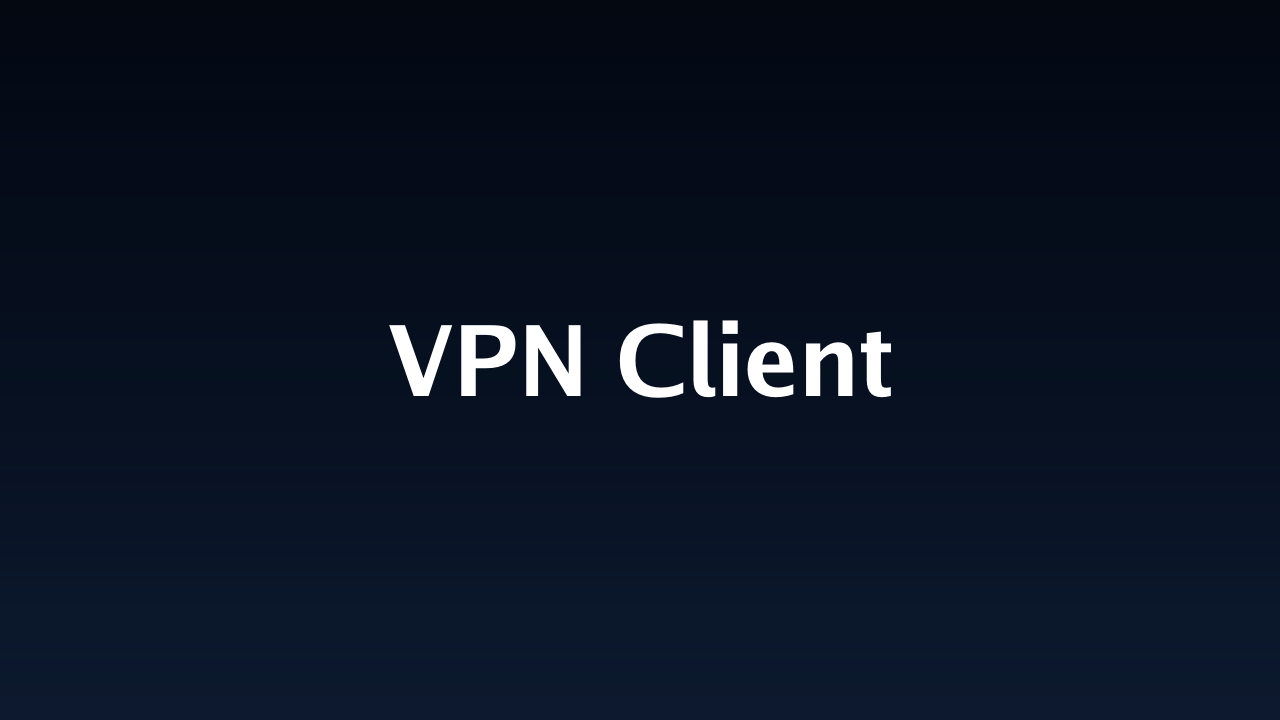
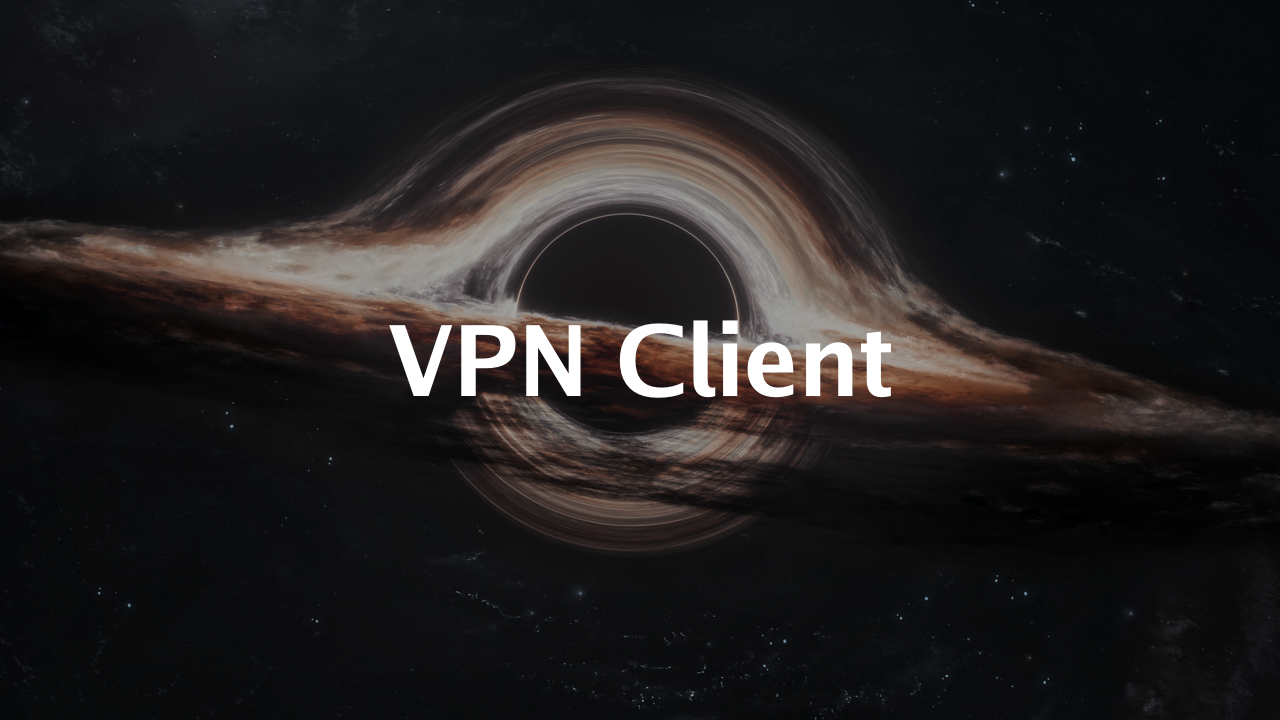
update images and handlers

diff --git a/vpn-bot/bot/handlers/start.go b/vpn-bot/bot/handlers/start.go
@@ -1,12 +1,16 @@
 package handlers
 
 import (
+	"bytes"
+	"log"
 	"strings"
+
+	"freeride/vpn-bot/services/media"
 
 	tb "gopkg.in/telebot.v3"
 )
 
-func registerStart(bot *tb.Bot) {
+func registerStart(bot *tb.Bot, d Deps) {
 	bot.Handle("/start", func(c tb.Context) error {
 		menu := &tb.ReplyMarkup{}
 		menu.InlineKeyboard = [][]tb.InlineButton{
@@ -21,6 +25,27 @@ func registerStart(bot *tb.Bot) {
 				title = "Привет, " + fn
 			}
 		}
-		return sendGeneratedCardOrText(Deps{Bot: bot}, c.Recipient(), title, "", &tb.SendOptions{ReplyMarkup: menu})
+		log.Printf("/start from id=%d title=%q", func() int64 {
+			if c.Sender() != nil {
+				return c.Sender().ID
+			}
+			return 0
+		}(), title)
+
+		card, err := media.RenderTitleCard(title)
+		if err == nil {
+			photo := &tb.Photo{
+				File:    tb.FromReader(bytes.NewReader(card)),
+				Caption: "",
+			}
+			if sendErr := c.Send(photo, menu); sendErr == nil {
+				return nil
+			} else {
+				log.Printf("/start photo send error: %v", sendErr)
+			}
+		} else {
+			log.Printf("/start render error: %v", err)
+		}
+		return c.Send(title, menu)
 	})
 }

diff --git a/vpn-bot/bot/handlers/register.go b/vpn-bot/bot/handlers/register.go
@@ -4,7 +4,7 @@ import tb "gopkg.in/telebot.v3"
 
 // RegisterAll подключает все хендлеры (vpn-setup-guide).
 func RegisterAll(bot *tb.Bot, d Deps) {
-	registerStart(bot)
+	registerStart(bot, d)
 	registerCallbacks(bot, d)
 	registerAdmin(bot, d)
 	registerStatus(bot, d)

diff --git a/vpn-bot/services/media/cards.go b/vpn-bot/services/media/cards.go
@@ -120,9 +120,7 @@ func backgroundPathCandidates() []string {
 	}
 	out = append(out,
 		"bg.jpg",
-		filepath.Join(".", "bg.jpg"),
-		filepath.Join("arengate-landing", "public", "bg.jpg"),
-		filepath.Join("assets", "bg.jpg"),
+		filepath.Join("vpn-bot", "bg.jpg"),
 	)
 	return out
 }
